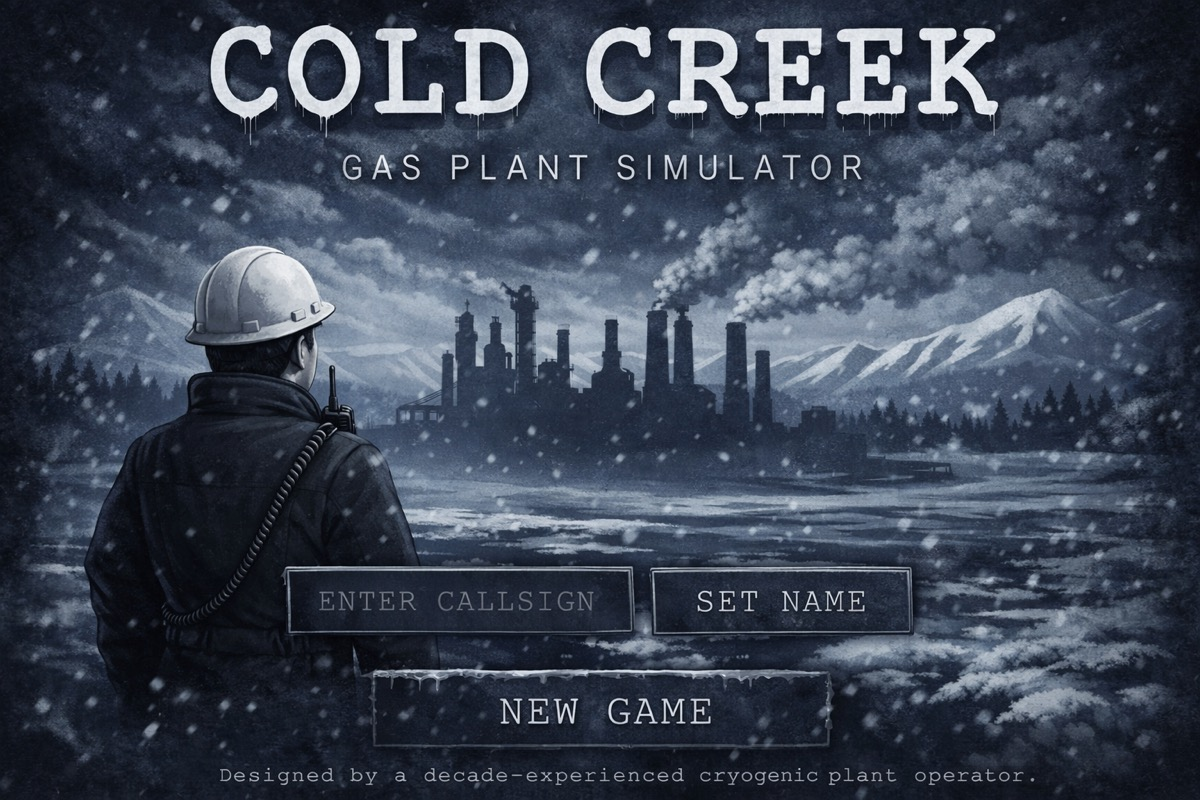
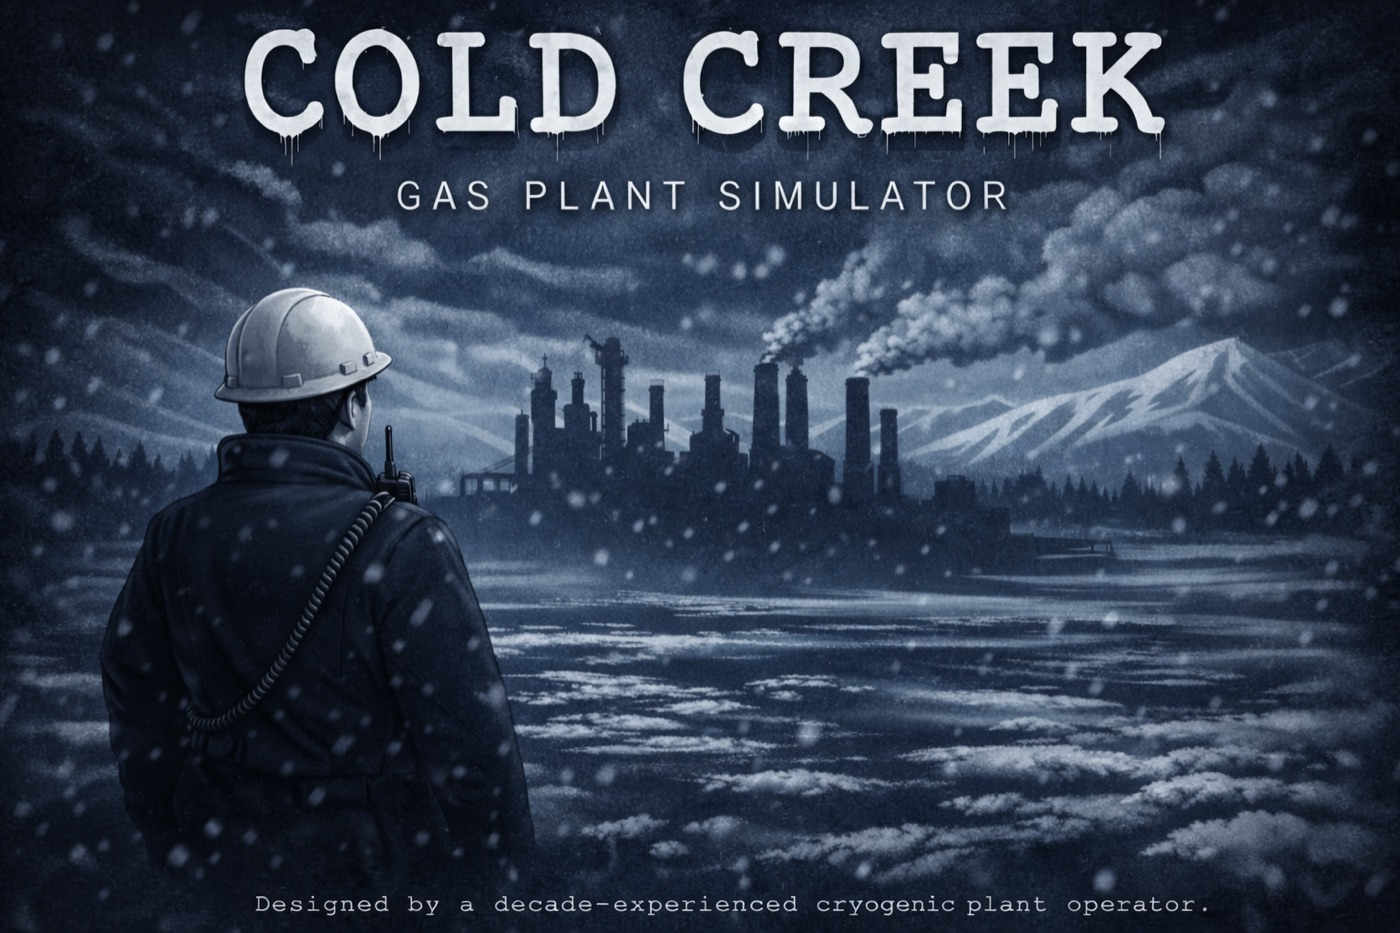
Gameplay screen art integration + cleaner landing page image
- Game screen: lighter overlay (75-80%) so industrial texture shows through
- Left panel, center panel, topbar: semi-transparent backgrounds
- Swapped landing-bg.jpg and og-image.png with cleaner version (no baked-in UI)
- Cache busted to v8

diff --git a/style.css b/style.css
@@ -871,10 +871,11 @@ html, body {
 #game-screen {
   flex-direction: column;
   background-color: var(--bg-panel);
-  background-image: linear-gradient(to bottom, rgba(26,26,30,0.92) 0%, rgba(26,26,30,0.95) 100%), url('/gameplay-bg.jpg');
+  background-image: linear-gradient(to bottom, rgba(26,26,30,0.75) 0%, rgba(26,26,30,0.80) 100%), url('/gameplay-bg.jpg');
   background-size: cover;
   background-position: center;
   background-repeat: no-repeat;
+  background-attachment: fixed;
 }
 
 /* ---- TOP BAR ---- */
@@ -884,7 +885,7 @@ html, body {
   align-items: center;
   height: 36px;
   padding: 0 12px;
-  background: var(--bg-deep);
+  background: rgba(20, 20, 25, 0.92);
   border-bottom: 1px solid var(--border);
   flex-shrink: 0;
 }
@@ -1007,7 +1008,7 @@ html, body {
   overflow-y: auto;
   -webkit-overflow-scrolling: touch;
   border-right: 1px solid var(--border);
-  background: var(--bg-panel);
+  background: rgba(30, 30, 35, 0.92);
   padding: 4px 0;
   flex-shrink: 0;
 }
@@ -1128,7 +1129,7 @@ html, body {
   flex: 1;
   overflow: hidden;
   position: relative;
-  background: var(--bg-panel);
+  background: rgba(30, 30, 35, 0.88);
   display: flex;
   align-items: center;
   justify-content: center;

diff --git a/index.html b/index.html
@@ -136,7 +136,7 @@
   <!-- Content Security Policy -->
   <meta http-equiv="Content-Security-Policy" content="default-src 'self'; script-src 'self' https://www.gstatic.com https://apis.google.com https://*.vercel-insights.com 'unsafe-inline'; style-src 'self' 'unsafe-inline'; connect-src 'self' https://*.firebaseio.com https://*.googleapis.com https://identitytoolkit.googleapis.com https://securetoken.googleapis.com wss://*.firebaseio.com; img-src 'self' data: blob:; font-src 'self'; frame-src https://apis.google.com https://cold-creek.firebaseapp.com https://*.firebaseapp.com;">
 
-  <link rel="stylesheet" href="style.css?v=7">
+  <link rel="stylesheet" href="style.css?v=8">
 </head>
 <body>
   <div id="app">
